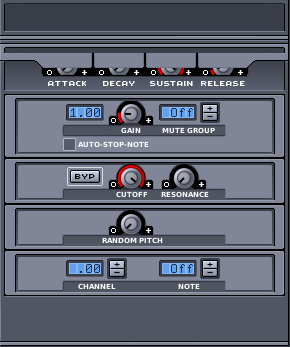
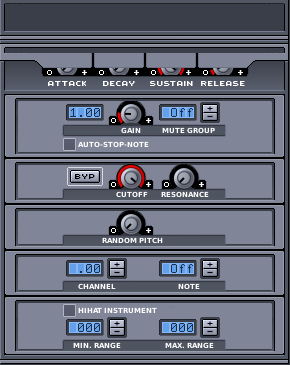
GUI for hihat instrument management

diff --git a/src/gui/src/InstrumentEditor/InstrumentEditor.cpp b/src/gui/src/InstrumentEditor/InstrumentEditor.cpp
@@ -239,6 +239,65 @@ InstrumentEditor::InstrumentEditor( QWidget* pParent )
 	m_pIsStopNoteCheckBox->setToolTip( trUtf8( "Stop the current playing instrument-note before trigger the next note sample." ) );
 	connect( m_pIsStopNoteCheckBox, SIGNAL( toggled( bool ) ), this, SLOT( onIsStopNoteCheckBoxClicked( bool ) ) );
 
+	//////////////////////////
+	// HiHat setup
+
+	m_pIsHihat = new QCheckBox ( trUtf8( "" ), m_pInstrumentProp );
+	m_pIsHihat->move( 63, 304 );
+	m_pIsHihat->setToolTip( trUtf8( "Set the instrument as part of a hihat set." ) );
+	connect( m_pIsHihat, SIGNAL( toggled( bool ) ), this, SLOT( pIsHihatCheckBoxClicked( bool ) ) );
+
+
+	m_pHihatMinRangeLCD = new LCDDisplay( m_pInstrumentProp, LCDDigit::SMALL_BLUE, 4 );
+	m_pHihatMinRangeLCD->move( 67, 320 );
+
+	m_pAddHihatMinRangeBtn = new Button(
+			m_pInstrumentProp,
+			"/lcd/LCDSpinBox_up_on.png",
+			"/lcd/LCDSpinBox_up_off.png",
+			"/lcd/LCDSpinBox_up_over.png",
+			QSize( 16, 8 )
+	);
+	m_pAddHihatMinRangeBtn->move( 109, 319 );
+	connect( m_pAddHihatMinRangeBtn, SIGNAL( clicked(Button*) ), this, SLOT( hihatMinRangeBtnClicked(Button*) ) );
+
+	m_pDelHihatMinRangeBtn = new Button(
+			m_pInstrumentProp,
+			"/lcd/LCDSpinBox_down_on.png",
+			"/lcd/LCDSpinBox_down_off.png",
+			"/lcd/LCDSpinBox_down_over.png",
+			QSize(16,8)
+	);
+	m_pDelHihatMinRangeBtn->move( 109, 328 );
+	connect( m_pDelHihatMinRangeBtn, SIGNAL( clicked(Button*) ), this, SLOT( hihatMinRangeBtnClicked(Button*) ) );
+
+
+	m_pHihatMaxRangeLCD = new LCDDisplay( m_pInstrumentProp, LCDDigit::SMALL_BLUE, 4 );
+	m_pHihatMaxRangeLCD->move( 160, 320 );
+
+	m_pAddHihatMaxRangeBtn = new Button(
+			m_pInstrumentProp,
+			"/lcd/LCDSpinBox_up_on.png",
+			"/lcd/LCDSpinBox_up_off.png",
+			"/lcd/LCDSpinBox_up_over.png",
+			QSize( 16, 8 )
+	);
+	m_pAddHihatMaxRangeBtn->move( 202, 319 );
+	connect( m_pAddHihatMaxRangeBtn, SIGNAL( clicked(Button*) ), this, SLOT( hihatMaxRangeBtnClicked(Button*) ) );
+
+	m_pDelHihatMaxRangeBtn = new Button(
+			m_pInstrumentProp,
+			"/lcd/LCDSpinBox_down_on.png",
+			"/lcd/LCDSpinBox_down_off.png",
+			"/lcd/LCDSpinBox_down_over.png",
+			QSize(16,8)
+	);
+	m_pDelHihatMaxRangeBtn->move( 202, 328 );
+	connect( m_pDelHihatMaxRangeBtn, SIGNAL( clicked(Button*) ), this, SLOT( hihatMaxRangeBtnClicked(Button*) ) );
+
+	//
+
+
 //~ Instrument properties
 
 
@@ -429,6 +488,13 @@ void InstrumentEditor::selectedInstrumentChangedEvent()
 			sMidiOutChannel = "Off";
 		}
 		m_pMidiOutChannelLCD->setText( sMidiOutChannel );
+
+		// hihat
+		m_pIsHihat->setChecked( m_pInstrument->is_hihat() );
+		QString sHiHatMinRange = QString("%1").arg( m_pInstrument->get_lower_cc() );
+		m_pHihatMinRangeLCD->setText( sHiHatMinRange );
+		QString sHiHatMaxRange = QString("%1").arg( m_pInstrument->get_higher_cc() );
+		m_pHihatMaxRangeLCD->setText( sHiHatMaxRange );
 
 		//Convert note id into notation
 		{
@@ -892,4 +958,36 @@ void InstrumentEditor::midiOutNoteBtnClicked(Button *pRef)
 		}
 	}
 
+}
+
+void InstrumentEditor::pIsHihatCheckBoxClicked( bool on )
+{
+    assert( m_pInstrument );
+
+	m_pInstrument->set_hihat( on );
+	selectedInstrumentChangedEvent();	// force an update
+}
+
+void InstrumentEditor::hihatMinRangeBtnClicked(Button *pRef)
+{
+	assert( m_pInstrument );
+
+	if ( pRef == m_pAddHihatMinRangeBtn && m_pInstrument->get_lower_cc() < 127 )
+		m_pInstrument->set_lower_cc( m_pInstrument->get_lower_cc() + 1 );
+	else if ( pRef == m_pDelHihatMinRangeBtn && m_pInstrument->get_lower_cc() > 0 )
+		m_pInstrument->set_lower_cc( m_pInstrument->get_lower_cc() - 1 );
+
+	selectedInstrumentChangedEvent();	// force an update
+}
+
+void InstrumentEditor::hihatMaxRangeBtnClicked(Button *pRef)
+{
+	assert( m_pInstrument );
+
+	if ( pRef == m_pAddHihatMaxRangeBtn && m_pInstrument->get_higher_cc() < 127 )
+		m_pInstrument->set_higher_cc( m_pInstrument->get_higher_cc() + 1);
+	else if ( pRef == m_pDelHihatMaxRangeBtn && m_pInstrument->get_higher_cc() > 0 )
+		m_pInstrument->set_higher_cc( m_pInstrument->get_higher_cc() - 1);
+
+	selectedInstrumentChangedEvent();	// force an update
 }

diff --git a/src/gui/src/InstrumentEditor/InstrumentEditor.h b/src/gui/src/InstrumentEditor/InstrumentEditor.h
@@ -73,6 +73,10 @@ class InstrumentEditor : public QWidget, public H2Core::Object, public EventList
 		void midiOutChannelBtnClicked(Button *pRef);
 		void midiOutNoteBtnClicked(Button *pRef);
 
+		void pIsHihatCheckBoxClicked( bool on);
+		void hihatMinRangeBtnClicked(Button *pRef);
+		void hihatMaxRangeBtnClicked(Button *pRef);
+
 	private:
 		H2Core::Instrument *m_pInstrument;
 		int m_nSelectedLayer;
@@ -107,15 +111,27 @@ class InstrumentEditor : public QWidget, public H2Core::Object, public EventList
 		LCDDisplay *m_pMuteGroupLCD;
 		Button *m_pAddMuteGroupBtn;
 		Button *m_pDelMuteGroupBtn;
-		
+
 		// Instrument midi out
 		LCDDisplay *m_pMidiOutChannelLCD;
 		Button *m_pAddMidiOutChannelBtn;
 		Button *m_pDelMidiOutChannelBtn;
-		
+
 		LCDDisplay *m_pMidiOutNoteLCD;
 		Button *m_pAddMidiOutNoteBtn;
-		Button *m_pDelMidiOutNoteBtn;		
+		Button *m_pDelMidiOutNoteBtn;
+
+		// Instrument hihat
+
+		QCheckBox *m_pIsHihat;
+
+		LCDDisplay *m_pHihatMinRangeLCD;
+		Button *m_pAddHihatMinRangeBtn;
+		Button *m_pDelHihatMinRangeBtn;
+
+		LCDDisplay *m_pHihatMaxRangeLCD;
+		Button *m_pAddHihatMaxRangeBtn;
+		Button *m_pDelHihatMaxRangeBtn;
 
 
 		//~ Instrument properties
@@ -123,7 +139,7 @@ class InstrumentEditor : public QWidget, public H2Core::Object, public EventList
 		// Layer properties
 		LayerPreview *m_pLayerPreview;
 		QScrollArea *m_pLayerScrollArea;
-		
+
 
 		PixmapWidget *m_pLayerProp;
 		Rotary *m_pLayerGainRotary;
